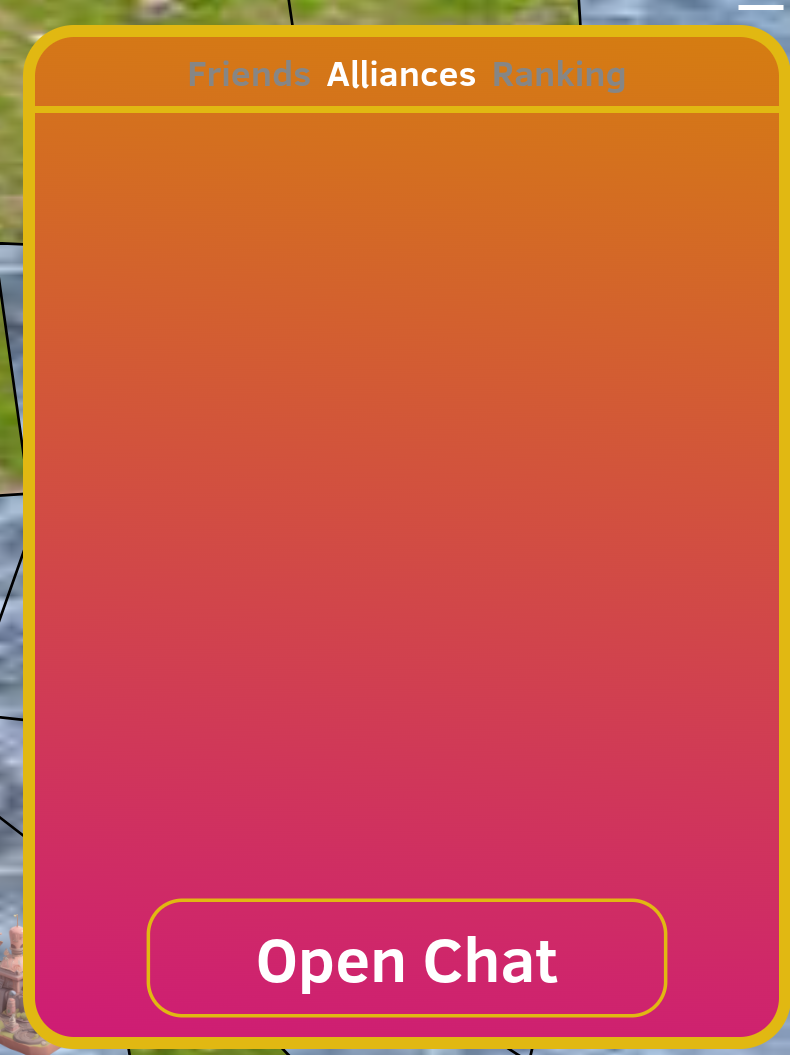
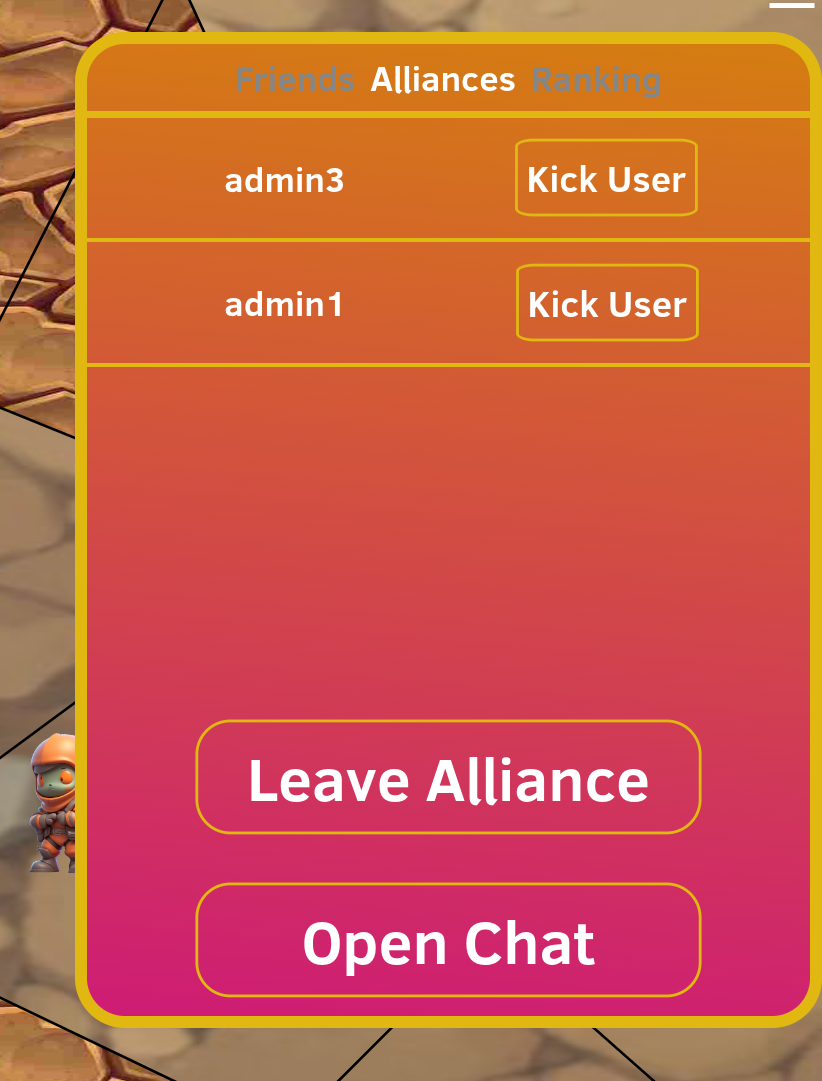
alliance member list

diff --git a/frontend/src/Game/UI/ChatMenu/Alliance/AllianceTab.js b/frontend/src/Game/UI/ChatMenu/Alliance/AllianceTab.js
@@ -1,10 +1,12 @@
-import React, {useEffect, useState, useContext} from "react";
+import React, {useContext, useEffect, useState} from "react";
 import MessageBoard from "../MessageBoard";
 import axios from "axios";
 import AllianceRequestEntry from "./AllianceRequestEntry";
 import {UserInfoContext} from "../../../Context/UserInfoContext"
 import "./AllianceTab.css"
 import "../Requests/RequestButtons.css"
+import AllianceMemberEntry from "./AllianceMemberEntry";
+
 
 const AllianceTab = (props) => {
     const [chatOpen, setChatOpen] = useState(false)
@@ -20,6 +22,32 @@ const AllianceTab = (props) => {
 
     /*store the message board number*/
     const [messageBoard, setMessageBoard] = useState(-1);
+
+    /*store the message board number*/
+    const [allianceMembers, setAllianceMembers] = useState([]);
+
+    const sendLeaveUser = async (user_id) => {
+        /*
+        * when we accept or reject an alliance join request we need to communicate that to the backend
+        * */
+        try {
+            await axios.post(`${process.env.REACT_APP_BACKEND_PATH}/chat/kick_user`,
+                JSON.stringify({
+                    "user_id": user_id
+                }),
+                {
+                    headers: {
+                        'content-type': 'application/json',
+                        'accept': 'application/json',
+                    },
+                }
+            )
+
+        } catch (e) {
+        }
+
+    }
+
 
     /*
     * This function will create/try to join an alliance
@@ -83,6 +111,16 @@ const AllianceTab = (props) => {
         }
     }
 
+    const getAllianceMembers = async () => {
+        /*get all members that are part of the alliance*/
+        try {
+            const response = await axios.get(`${process.env.REACT_APP_BACKEND_PATH}/chat/get_alliance_members`)
+            return response.data
+        } catch (e) {
+            return -1
+        }
+    }
+
     useEffect(() => {
         async function makeOverviewEntries() {
             let data = await getAllianceRequests()
@@ -91,12 +129,14 @@ const AllianceTab = (props) => {
             if (userInfo.alliance !== null) {
                 data = await getMessageBoard()
                 setMessageBoard(data)
+
+                data = await getAllianceMembers()
+                setAllianceMembers(data)
             }
         }
 
         makeOverviewEntries()
     }, [userInfo.alliance])
-
     return (
         <>
             {/*when the chat is not yet open*/}
@@ -128,17 +168,36 @@ const AllianceTab = (props) => {
                             {/*visualize all alliance join requests*/}
                             <div style={{"overflowY": "scroll", "height": "85%", "scrollbarWidth:": "none"}}>
                                 {
-                                    /*display all friend requests*/
-                                    allianceRequests.map((elem, index) => <AllianceRequestEntry user={elem[0]}
-                                                                                                user_id={elem[1]}
-                                                                                                key={index}
-                                                                                                onEntryChose={
-                                                                                                    () => setAllianceRequests(allianceRequests.slice(0, index).concat(allianceRequests.slice(index + 1)))
-                                                                                                }/>)
+                                /*display all friend requests*/
+                                allianceRequests.map((elem, index) =>
+                                    <AllianceRequestEntry user={elem[0]}
+                                    user_id={elem[1]}
+                                    key={index}
+                                    onEntryChose={
+                                        () => setAllianceRequests(allianceRequests.slice(0, index).concat(allianceRequests.slice(index + 1)))
+                                    }/>)
+                                }
+                                {
+                                /*display all friend requests*/
+                                allianceMembers.map((elem, index) =>
+                                    <AllianceMemberEntry user={elem.name}
+                                    user_id={elem.id}
+                                    key={index}
+                                    onEntryChose={
+                                        () => setAllianceMembers(allianceMembers.slice(0, index).concat(allianceMembers.slice(index + 1)))
+                                    }/>)
                                 }
 
 
+
                             </div>
+                            {/*Display the leave button*/}
+                            <button className="RequestButton" onClick={() => {
+                                sendLeaveUser(userInfo.id);
+                                const newUserInfo = {...userInfo, alliance: null};
+                                setUserInfo(newUserInfo);
+                            }}> Leave Alliance
+                            </button>
 
                             {/*button to open the alliance chat*/}
                             <button className="RequestButton" onClick={() => {
@@ -146,7 +205,6 @@ const AllianceTab = (props) => {
                             }}> Open Chat
                             </button>
                         </>
-
 
                     }
                 </div>

diff --git a/frontend/src/Game/UI/ChatMenu/Alliance/AllianceMemberEntry.js b/frontend/src/Game/UI/ChatMenu/Alliance/AllianceMemberEntry.js
@@ -1,0 +1,44 @@
+import axios from "axios";
+import React from "react";
+import "./AllianceMemberEntry.css"
+
+function AllianceMemberEntry(props) {
+    /**
+     * This component represent 1 request to join your faction
+     * */
+
+    const sendKickUser = async (user_id) => {
+        /*
+        * when we accept or reject an alliance join request we need to communicate that to the backend
+        * */
+        try {
+            await axios.post(`${process.env.REACT_APP_BACKEND_PATH}/chat/kick_user`,
+                JSON.stringify({
+                    "user_id": user_id
+                }),
+                {
+                    headers: {
+                        'content-type': 'application/json',
+                        'accept': 'application/json',
+                    },
+                }
+            )
+            props.onEntryChose();
+        } catch (e) {
+        }
+
+    }
+
+    return (
+        <>
+            <div className="AllianceMemberEntry">
+                <div style={{"paddingLeft": "10%", "paddingRight": "10%"}}>{props.user}</div>
+
+                <button style={{"marginLeft": "10%"}} onClick={() => {sendKickUser(props.user_id)}}>Kick User</button>
+
+            </div>
+        </>
+    )
+}
+
+export default AllianceMemberEntry

diff --git a/frontend/src/Game/UI/ChatMenu/Alliance/AllianceMemberEntry.css b/frontend/src/Game/UI/ChatMenu/Alliance/AllianceMemberEntry.css
@@ -1,0 +1,40 @@
+.AllianceMemberEntry{
+    border-bottom: 0.2vw solid var(--tertiaryColor);
+    margin-left: auto;
+    margin-right: auto;
+
+    width: 100%;
+    height: 5vw;
+
+    padding-left: 10%;
+
+    display: flex;
+    flex-direction: row;
+    align-items: center;
+
+
+}
+
+.AllianceMemberEntry:hover {
+    --scaleIndex: 110%;
+    transform: scale(var(--scaleIndex));
+    border-top: 0.2vw solid var(--tertiaryColor);
+    z-index: 21;
+}
+
+.AllianceMemberEntry button {
+
+    bottom: 0;
+    padding: 0.5vw;
+    font-size: 150%;
+    border-radius: 10% 10% 10% 10%;
+    transform: scale(70%);
+    border: 0.2vw solid var(--tertiaryColor);
+}
+
+.AllianceMemberEntry button:hover {
+    --scaleIndex: 95%;
+    transform: scale(var(--scaleIndex));
+    z-index: 21;
+
+}

diff --git a/backend/src/app/routers/chat/router.py b/backend/src/app/routers/chat/router.py
@@ -283,3 +283,43 @@ async def get_ranking(
     data_access = DataAccess(db)
     ranking = await data_access.RankingAccess.get_top_ranking(30)
     return ranking
+
+
+@router.get("/get_alliance_members")
+async def get_alliance_members(
+        user_id: Annotated[int, Depends(get_my_id)],
+        db: AsyncSession = Depends(get_db)
+
+) -> List:
+    """
+    get the ranking of users, based on the amount of Solarium they have
+    """
+
+    data_access = DataAccess(db)
+    alliance = await data_access.AllianceAccess.get_alliance(user_id)
+    if alliance is None:
+        return []
+    users = await data_access.AllianceAccess.get_alliance_members(alliance)
+
+    return [{"name": user.username, "id": user.id} for user in users if user.id != user_id]
+
+
+@router.post("/kick_user")
+async def kick_user(
+        request: Request,
+        user_id: Annotated[int, Depends(get_my_id)],
+        db: AsyncSession = Depends(get_db)
+
+):
+    """
+    Kick a user from the alliance
+    """
+
+    data = await request.json()
+    to_kick_id = data["user_id"]
+
+    data_access = DataAccess(db)
+    await data_access.AllianceAccess.kick_user(user_id, to_kick_id)
+    await data_access.commit()
+
+    return {"success": True}

diff --git a/backend/src/app/database/database_access/alliance_access.py b/backend/src/app/database/database_access/alliance_access.py
@@ -3,6 +3,7 @@ from sqlalchemy.orm import aliased
 
 from ..models import *
 from .database_acess import DatabaseAccess
+from ..exceptions.permission_exception import PermissionException
 
 
 class AllianceAccess(DatabaseAccess):
@@ -142,3 +143,23 @@ class AllianceAccess(DatabaseAccess):
             return None
 
         return result
+
+    async def kick_user(self, user_id: int, kicked_user: int):
+        """
+        Kick a user from the alliance
+
+        :param: user_id: id of the user who does the kick
+        :param: kicked_user: id of hte user that will be kicked
+        """
+
+        """
+        Check if users are in same alliance
+        """
+        alliance_a = await self.get_alliance(user_id)
+        alliance_b = await self.get_alliance(kicked_user)
+
+        if alliance_a != alliance_b:
+            raise PermissionException(user_id, "kick users from an alliance he/she is not even part of")
+
+        update_alliance = Update(User).values({"alliance": None}).where(User.id == kicked_user)
+        await self.session.execute(update_alliance)

diff --git a/backend/tests/routers/chat/test_chat_router.py b/backend/tests/routers/chat/test_chat_router.py
@@ -138,3 +138,31 @@ def test_alliance(client):
     data = response.json()
     assert len(data) == 1
     assert data[0][0] == "insert2"
+
+def test_alliance_kick(client):
+    headers, headers2, token, token2 = insert_test_data(client)
+
+    """
+    let 'insert' create an alliance
+    """
+    data = {
+        "alliance_name": "abc"
+    }
+    response = client.post("/chat/create_alliance", headers=headers, json=data)
+    data = response.json()
+    assert data["success"]
+    assert data["message"] == "Alliance is created"
+
+    """
+    kick yourself from the alliance
+    """
+
+    response = client.post("/chat/kick_user", headers=headers, json={"user_id": 1})
+    print(response)
+
+    data = {
+        "alliance_name": "abc"
+    }
+    response = client.post("/chat/alliance_messageboard", headers=headers2, json=data)
+    data = response.json()
+    assert data["detail"] == "Method Not Allowed"

diff --git a/backend/tests/database/test_alliance_access.py b/backend/tests/database/test_alliance_access.py
@@ -185,3 +185,18 @@ async def test_get_alliance(alliance_access: AllianceAccess):
 async def test_get_alliance_2(alliance_access: AllianceAccess):
     alliance = await alliance_access.get_alliance(1)
     assert alliance is None
+
+
+async def test_kick_alliance(alliance_access: AllianceAccess):
+    await alliance_access.create_alliance("Test Alliance")
+    await alliance_access.set_alliance(1, "Test Alliance")
+    await alliance_access.set_alliance(2, "Test Alliance")
+    await alliance_access.commit()
+
+    m = await alliance_access.get_alliance_members("Test Alliance")
+    assert len(m) == 2
+
+    await alliance_access.kick_user(1, 2)
+
+    m = await alliance_access.get_alliance_members("Test Alliance")
+    assert len(m) == 1

diff --git a/docs/backend/endpoints.md b/docs/backend/endpoints.md
@@ -41,6 +41,7 @@ Our Endpoints are structured into multiple routers:
 |   alliance_requests   |   POST    | Accept/Reject an alliance request                                                    |
 | alliance_messageboard |    GET    | Get the message board corresponding to the user his alliance                         |
 |        ranking        |    GET    | Get the player ranking (based on amount of Solarium a user has)                      |
+|       kick_user       |   POST    | Kick a user from the alliance (when leaving the alliance, kick yourself)             |
 
 
 </p>
@@ -96,14 +97,14 @@ general logic information needed
 <p>
 This router will handle the communication about Armies and their actions
 
-|   Endpoint   | Method | Purpose                                                 |
-|:------------:|:------:|:--------------------------------------------------------|
-|    armies    |  GET   | Get all the armies on a specific planet                 |
-|    troops    |  GET   | Get all troops and stats of an army                     |
-| armies_user  |  GET   | Get all the armies that are owned by the accessing user |
-| army_in_city |  GET   | Retrieve the army that is inside the city               |
-| fleets_in_space |  GET   | Retrieve the fleets that are in space               |
-| fleets  |  GET   | Retrieve the fleets of a user on a specific planet               |
+|    Endpoint     | Method | Purpose                                                 |
+|:---------------:|:------:|:--------------------------------------------------------|
+|     armies      |  GET   | Get all the armies on a specific planet                 |
+|     troops      |  GET   | Get all troops and stats of an army                     |
+|   armies_user   |  GET   | Get all the armies that are owned by the accessing user |
+|  army_in_city   |  GET   | Retrieve the army that is inside the city               |
+| fleets_in_space |  GET   | Retrieve the fleets that are in space                   |
+|     fleets      |  GET   | Retrieve the fleets of a user on a specific planet      |
 
 </p>
 </details>

diff --git a/docs/frontend/chat_menu.md b/docs/frontend/chat_menu.md
@@ -83,6 +83,9 @@ This overview will also show a list of all players who want to join the alliance
 We can accept or reject users. These components are called 'AllianceRequestEntry', and behave similary to friend request entries,
 but has as backend endpoint /chat/alliance_requests
 
+Below the list of alliance join requests a list of current alliance members will also be provided
+and also the option to leave this alliance
+
 <br>![alt text](../images/alliance_menu_in.png)
 
 </details>
